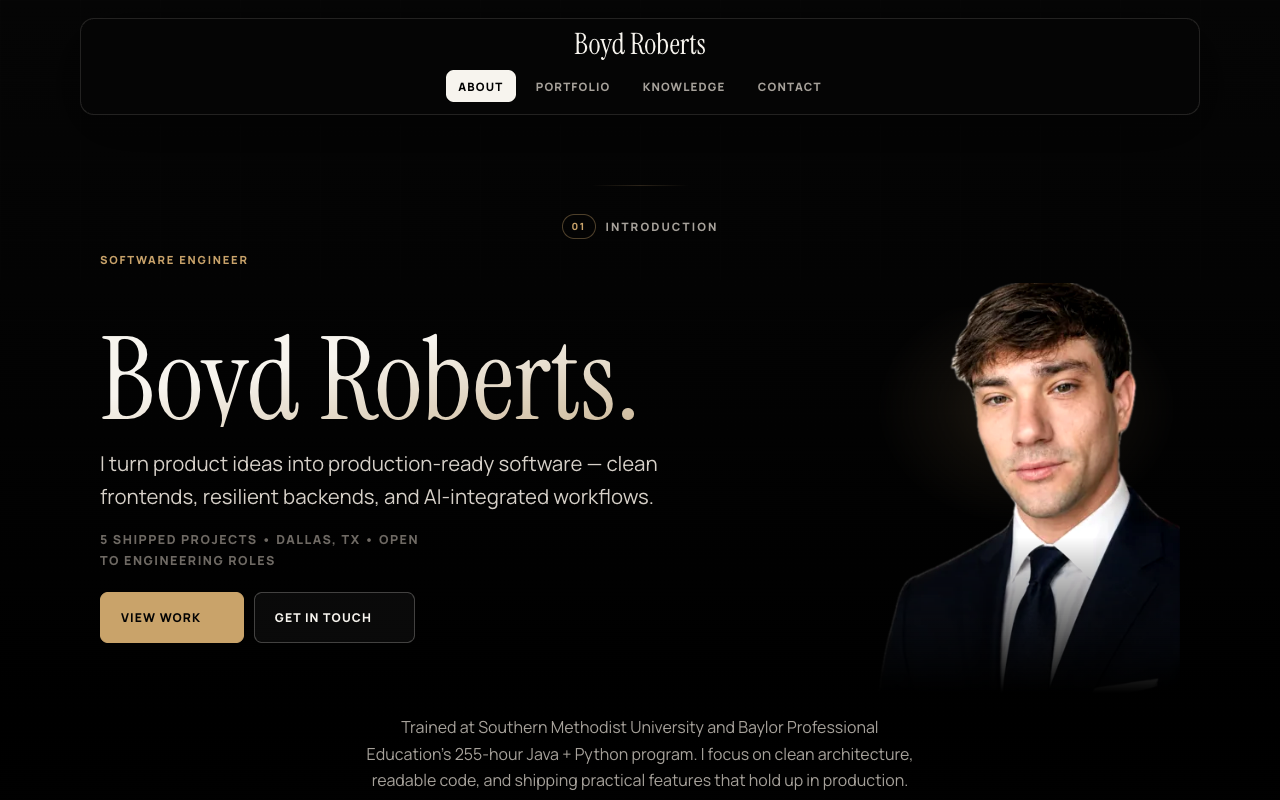
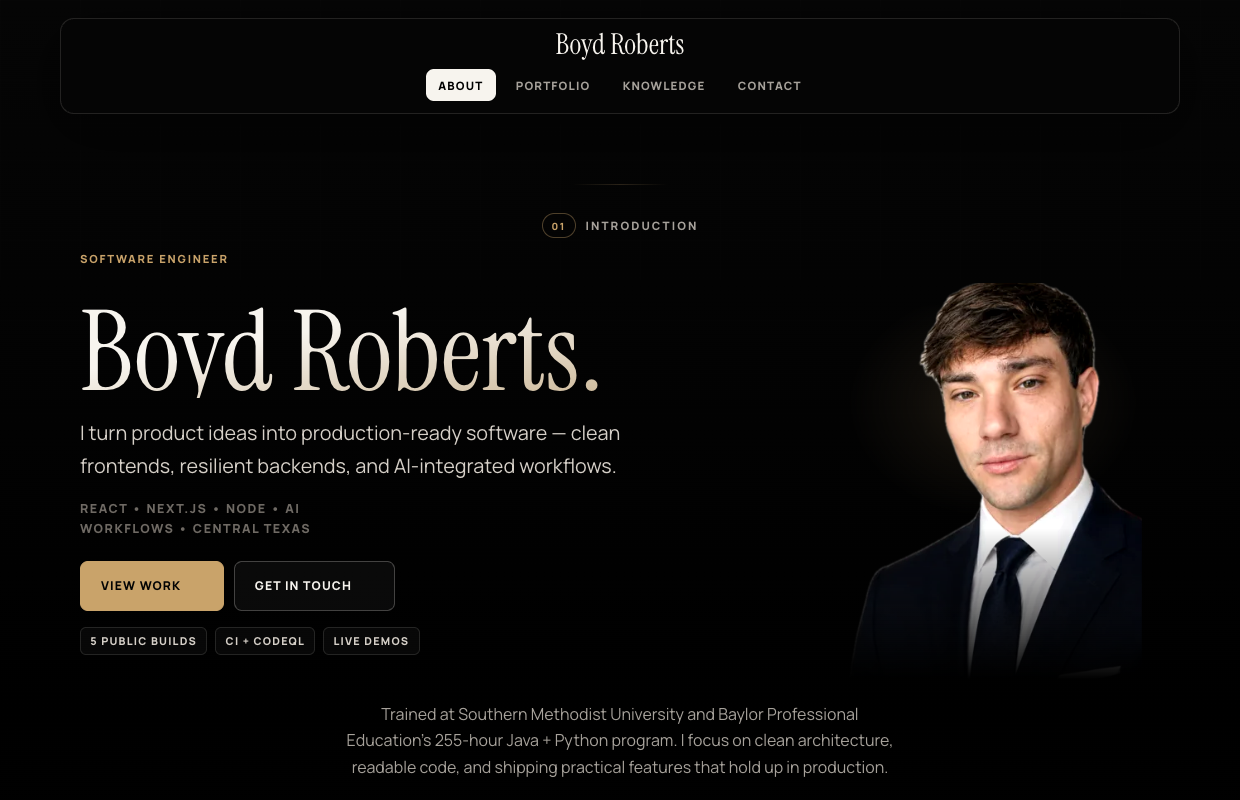
polish recruiter proof and project cards

diff --git a/src/components/Portfolio/index.jsx b/src/components/Portfolio/index.jsx
@@ -2,7 +2,7 @@ import { memo, useMemo, useState } from "react";
 import { projects } from "../../data/projects";
 import RevealItem from "../RevealItem";
 
-const ProjectCard = memo(function ProjectCard({ project }) {
+const ProjectCard = memo(function ProjectCard({ project, isLead = false }) {
   const [imageFailed, setImageFailed] = useState(!project.image);
   const coverTags = useMemo(() => project.tags.slice(0, 3), [project.tags]);
   const stack = useMemo(() => project.tags.slice(0, 4).join(" • "), [project.tags]);
@@ -10,9 +10,14 @@ const ProjectCard = memo(function ProjectCard({ project }) {
   const previewLabel = project.demo
     ? `${project.name} live demo`
     : `${project.name} repository`;
+  const cardClass = [
+    "project-card",
+    project.featured ? "project-card--featured" : "",
+    isLead ? "project-card--lead" : "",
+  ].filter(Boolean).join(" ");
 
   return (
-    <article className={`project-card${project.featured ? " project-card--featured" : ""}`}>
+    <article className={cardClass}>
       {project.featured && (
         <p className="project-featured-tag" aria-hidden="true">Featured Case Study</p>
       )}
@@ -56,24 +61,34 @@ const ProjectCard = memo(function ProjectCard({ project }) {
         <p className="project-stack" aria-label={`${project.name} technology stack`}>
           <span>Stack</span> {stack}
         </p>
+        {project.metrics?.length > 0 && (
+          <dl className="project-metrics" aria-label={`${project.name} key metrics`}>
+            {project.metrics.map((metric) => (
+              <div className="project-metric" key={`${project.name}-${metric.label}`}>
+                <dt>{metric.label}</dt>
+                <dd>{metric.value}</dd>
+              </div>
+            ))}
+          </dl>
+        )}
         <div className="project-actions">
           {project.featured && project.demo ? (
             <>
               <a href={project.demo} target="_blank" rel="noopener noreferrer" className="demo-link">
-                Live Demo
+                Live
               </a>
               <a href={project.repo} target="_blank" rel="noopener noreferrer">
-                View Repository
+                Source
               </a>
             </>
           ) : (
             <>
               <a href={project.repo} target="_blank" rel="noopener noreferrer">
-                View Repository
+                Source
               </a>
               {project.demo && (
                 <a href={project.demo} target="_blank" rel="noopener noreferrer" className="demo-link">
-                  Live Demo
+                  Live
                 </a>
               )}
             </>
@@ -101,7 +116,7 @@ function Portfolio() {
       <div className="project-grid project-grid--symmetrical">
         {projectsByPriority.map((project, i) => (
           <RevealItem delay={Math.min(i, 5)} key={project.name}>
-            <ProjectCard project={project} />
+            <ProjectCard project={project} isLead={i === 0} />
           </RevealItem>
         ))}
       </div>

diff --git a/src/editorial.css b/src/editorial.css
@@ -391,6 +391,28 @@ a {
   gap: 10px;
 }
 
+.hero-proof-list {
+  list-style: none;
+  margin: 0.95rem 0 0;
+  padding: 0;
+  display: flex;
+  justify-content: center;
+  flex-wrap: wrap;
+  gap: 8px;
+}
+
+.hero-proof-list li {
+  border: 1px solid var(--line);
+  border-radius: var(--radius-chip);
+  background: rgba(255, 255, 255, 0.028);
+  color: var(--ink-secondary);
+  padding: 0.28rem 0.58rem;
+  font-size: 0.68rem;
+  font-weight: var(--weight-label);
+  letter-spacing: 0.11em;
+  text-transform: uppercase;
+}
+
 .hero-cta {
   display: inline-flex;
   align-items: center;
@@ -800,6 +822,42 @@ a {
   text-transform: uppercase;
 }
 
+.project-metrics {
+  margin: 0.85rem 0 0;
+  display: flex;
+  justify-content: center;
+  flex-wrap: wrap;
+  gap: 8px;
+}
+
+.project-metric {
+  min-width: 112px;
+  border: 1px solid var(--line);
+  border-radius: var(--radius-chip);
+  background: rgba(255, 255, 255, 0.028);
+  padding: 0.42rem 0.58rem;
+}
+
+.project-metric dt,
+.project-metric dd {
+  margin: 0;
+}
+
+.project-metric dt {
+  color: var(--faint);
+  font-size: 0.58rem;
+  font-weight: var(--weight-label);
+  letter-spacing: 0.11em;
+  text-transform: uppercase;
+}
+
+.project-metric dd {
+  margin-top: 0.08rem;
+  color: var(--ink-secondary);
+  font-size: 0.8rem;
+  font-weight: 800;
+}
+
 .project-actions {
   margin-top: 0.35rem;
   display: flex;
@@ -1015,6 +1073,10 @@ a {
   .hero-meta {
     margin: 1rem 0 0;
   }
+
+  .hero-proof-list {
+    justify-content: flex-start;
+  }
 }
 
 @media (max-width: 960px) {
@@ -1093,12 +1155,55 @@ a {
     font-size: 0.68rem;
   }
 
+  .hero-proof-list {
+    gap: 6px;
+  }
+
+  .hero-proof-list li {
+    padding: 0.24rem 0.42rem;
+    font-size: 0.62rem;
+    letter-spacing: 0.08em;
+  }
+
   .project-card {
     border-radius: 24px;
+    grid-template-rows: minmax(190px, auto) auto;
   }
 
   .project-content {
-    padding: 20px 16px;
+    padding: 18px 15px;
+  }
+
+  .project-card--featured,
+  .project-card--lead {
+    grid-template-rows: auto minmax(190px, auto) auto;
+  }
+
+  .project-image,
+  .project-image-fallback {
+    min-height: 190px;
+  }
+
+  .project-metrics {
+    gap: 6px;
+  }
+
+  .project-metric {
+    min-width: 96px;
+    padding: 0.36rem 0.48rem;
+  }
+
+  .badge-wrap a {
+    padding: 0.36rem;
+  }
+
+  .badge-wrap img {
+    max-width: 92px;
+  }
+
+  .footer-icon {
+    width: 34px;
+    height: 34px;
   }
 }
 
@@ -1227,6 +1332,10 @@ a {
   position: relative;
   border-color: var(--gold-border);
   box-shadow: var(--shadow), 0 0 0 1px rgba(201, 163, 106, 0.06);
+  grid-template-rows: auto minmax(225px, 0.9fr) auto;
+}
+
+.project-card--lead {
   grid-template-rows: auto minmax(320px, 0.9fr) auto;
 }
 

diff --git a/src/components/About/index.jsx b/src/components/About/index.jsx
@@ -9,6 +9,7 @@ import RevealItem from "../RevealItem";
 function About() {
   const baseUrl = (import.meta.env.BASE_URL || "/").replace(/\/$/, "");
   const baylorCertificate = `${baseUrl}/certificates/baylor-java-python-certificate.pdf`;
+  const proofItems = [`${projects.length} public builds`, "CI + CodeQL", "Live demos"];
 
   return (
     <article className="about-panel">
@@ -32,7 +33,7 @@ function About() {
           <div className="hero-copy">
             <h2 className="hero-name">Boyd Roberts.</h2>
             <p className="hero-tagline">I turn product ideas into production-ready software — clean frontends, resilient backends, and AI-integrated workflows.</p>
-            <p className="hero-meta" aria-label={`${projects.length} shipped projects, Dallas TX, open to engineering roles`}>{projects.length} shipped projects&nbsp;•&nbsp;Dallas,&nbsp;TX&nbsp;•&nbsp;Open to engineering roles</p>
+            <p className="hero-meta" aria-label="React, Next.js, Node, AI workflows, Central Texas">React&nbsp;•&nbsp;Next.js&nbsp;•&nbsp;Node&nbsp;•&nbsp;AI workflows&nbsp;•&nbsp;Central Texas</p>
             <div className="hero-cta-row">
               <a className="hero-cta hero-cta--primary" href="#portfolio">
                 View work
@@ -41,6 +42,11 @@ function About() {
                 Get in touch
               </a>
             </div>
+            <ul className="hero-proof-list" aria-label="Portfolio proof points">
+              {proofItems.map((item) => (
+                <li key={item}>{item}</li>
+              ))}
+            </ul>
           </div>
         </div>
       </div>

diff --git a/src/App.test.jsx b/src/App.test.jsx
@@ -14,6 +14,8 @@ describe("Portfolio site", () => {
     render(<App />);
 
     expect(screen.getByRole("heading", { name: /boyd\s*roberts\./i })).toBeInTheDocument();
+    expect(screen.getByText(/react\s*•\s*next\.js\s*•\s*node\s*•\s*ai workflows\s*•\s*central texas/i)).toBeInTheDocument();
+    expect(screen.getByRole("list", { name: "Portfolio proof points" })).toHaveTextContent("CI + CodeQL");
     expect(window.location.hash).toBe("#about");
   });
 
@@ -45,7 +47,7 @@ describe("Portfolio site", () => {
     await screen.findByRole("heading", { name: "Selected Work" });
 
     const projectCards = screen.getAllByRole("article");
-    const projectRepoLinks = screen.getAllByRole("link", { name: "View Repository" });
+    const projectRepoLinks = screen.getAllByRole("link", { name: "Source" });
 
     expect(projectRepoLinks).toHaveLength(5);
     expect(projectCards.length).toBeGreaterThanOrEqual(5);
@@ -58,6 +60,10 @@ describe("Portfolio site", () => {
         "href",
         expectedHref
       );
+      project.metrics.forEach((metric) => {
+        expect(screen.getByText(metric.label)).toBeInTheDocument();
+        expect(screen.getByText(metric.value)).toBeInTheDocument();
+      });
     });
   });
 
@@ -159,6 +165,8 @@ describe("Portfolio site", () => {
 
     expect(window.location.hash).toBe("#main-content");
     expect(screen.getByRole("heading", { name: "Selected Work" })).toBeInTheDocument();
-    expect(document.title).toBe("Boyd Roberts | Portfolio");
+    await waitFor(() => {
+      expect(document.title).toBe("Boyd Roberts | Portfolio");
+    });
   });
 });

diff --git a/src/components/Footer/index.jsx b/src/components/Footer/index.jsx
@@ -24,7 +24,7 @@ function Footer() {
           );
         })}
       </ul>
-      <p className="footer-copy">© {currentYear} Boyd Roberts · Built in React + Vite · Dallas, TX</p>
+      <p className="footer-copy">© {currentYear} Boyd Roberts · Built in React + Vite · Central Texas</p>
     </footer>
   );
 }

diff --git a/README.md b/README.md
@@ -27,6 +27,15 @@ A single-page developer portfolio built with React 19 and Vite.
 
 Highlights selected engineering work, language breadth, certifications, and AI workflow experience — with hash-based deep linking, an editorial portrait hero, mobile-first responsive layout, and an accessibility-conscious component tree.
 
+## Recruiter / Reviewer Quick Path
+
+| Need | Link or command |
+|---|---|
+| Live portfolio | [coleyrockin.github.io/react-portfolio](https://coleyrockin.github.io/react-portfolio/) |
+| Best project demo | [World Asset Prices](https://world-asset-prices.vercel.app) |
+| Source code | [github.com/coleyrockin/react-portfolio](https://github.com/coleyrockin/react-portfolio) |
+| Validation | `npm run check` and `VISUAL_SMOKE_PORT=4174 npm run visual:smoke` |
+
 ## Featured Project Links
 
 | Project | Live | Source |
@@ -87,7 +96,7 @@ Run with `npm test` (Vitest + jsdom + Testing Library).
 
 Manual release smoke:
 
-- `npm run visual:smoke` builds the site, starts a local Vite preview, captures mobile/desktop screenshots for all four hash routes, and writes evidence to ignored `reports/visual-smoke/`.
+- `npm run visual:smoke` builds the site, starts a local Vite preview, captures 360px, 390px, and desktop screenshots for all four hash routes, and writes evidence to ignored `reports/visual-smoke/`.
 - The smoke script fails on horizontal overflow, missing image alt text, missing route headings, unresolved CSP placeholders, browser console errors, or page errors.
 - It defaults to `127.0.0.1:4173`; set `VISUAL_SMOKE_PORT=4174` if that port is already occupied by another local preview.
 
@@ -140,7 +149,7 @@ npm run dev
 | `npm run lint:fix` | Lint and auto-fix |
 | `npm run format` | Format `src/` with Prettier |
 | `npm run check` | Lint + test + build (full CI pipeline) |
-| `npm run visual:smoke` | Build, preview, screenshot, and validate all routes at mobile + desktop sizes. Defaults to port 4173; override with `VISUAL_SMOKE_PORT` if needed. |
+| `npm run visual:smoke` | Build, preview, screenshot, and validate all routes at 360px, 390px, and desktop sizes. Defaults to port 4173; override with `VISUAL_SMOKE_PORT` if needed. |
 
 <details>
 <summary><strong>Project Structure</strong></summary>

diff --git a/docs/ROADMAP.md b/docs/ROADMAP.md
@@ -11,6 +11,7 @@ Current status after the May 2026 audit and polish passes. The site is intention
 - Portfolio polish: featured case study marker, larger featured image area, consistent project image overlay, demo-first featured CTA order.
 - Link polish: verified all project repository URLs, kept WestWardRPG repository-only until a live demo exists, and made project previews open live demos when available.
 - Repository polish: README now includes a concise live/source project link table for public GitHub visitors.
+- Recruiter polish: hero proof chips, Central Texas location language, compact project metrics, and 360px visual smoke coverage.
 - Knowledge polish: numbered section eyebrows, language tier sentence-key, AI work elevated above certifications.
 - Accessibility cleanup: duplicate credential links removed, contact links use visible labels, active nav focus is visually distinct.
 
